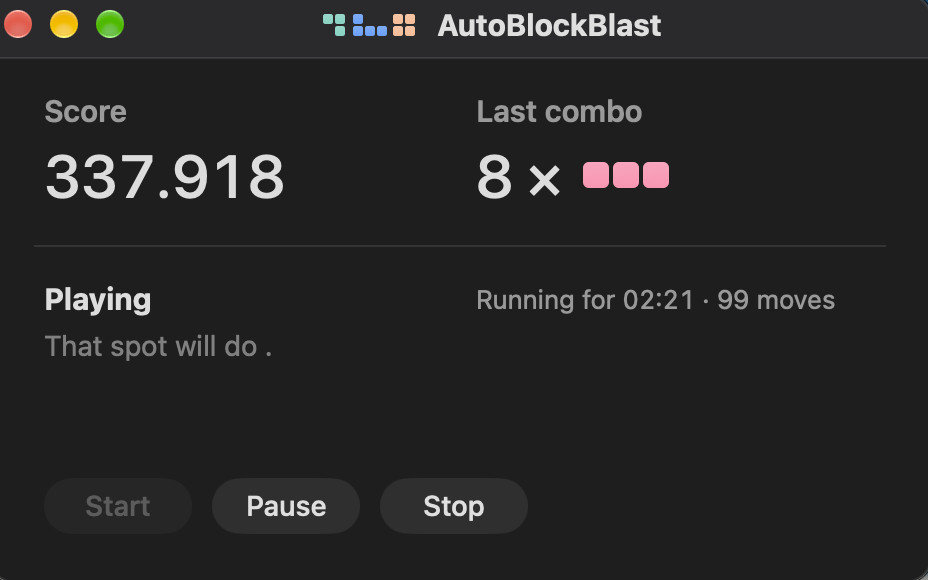
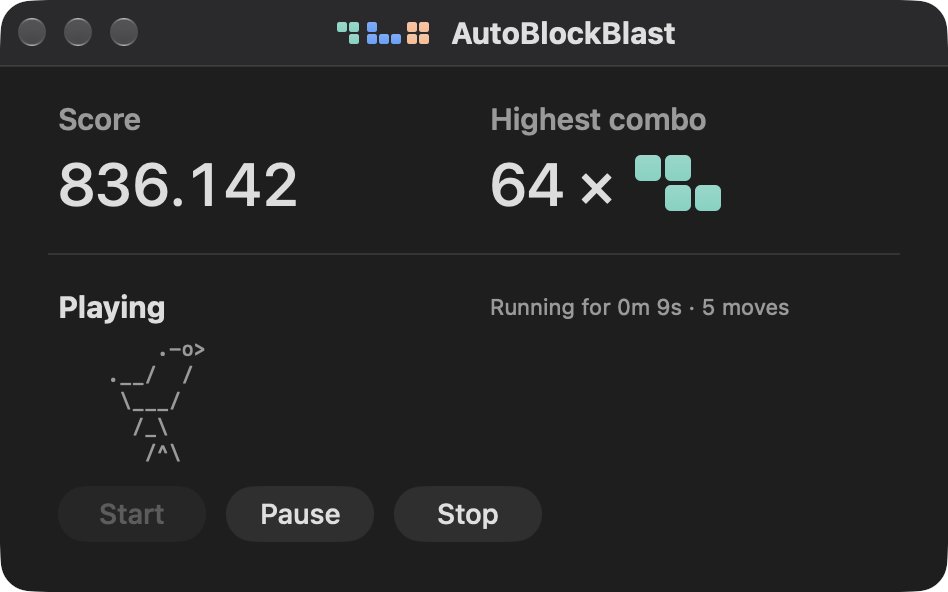
Show a jumping dino and refresh the README previews

diff --git a/desktop/AutoBlockBlast.swift b/desktop/AutoBlockBlast.swift
@@ -109,61 +109,19 @@ final class BotApp: NSObject, NSApplicationDelegate {
     private var playAnimationStartedAt: TimeInterval = 0
     private let detailFont = NSFont.systemFont(ofSize: 14)
     private let storyFont = NSFont.monospacedSystemFont(ofSize: 10, weight: .medium)
-    private let duelFrames = [
-        // The fighters close in.
-        " .-.            .-.\n(o >)          (< x)\n/|#|\\          /|#|\\\n |=|            |=|\n/   \\          /   \\",
-        "  .-.          .-.\n (o >)        (< x)\n /|#|-        /|#|\\\n  |=|          |=|\n  / /         /   \\",
-        "  .-.          .-.\n (o >)        (< x)\n /|#|\\        -|#|\\\n  |=|          |=|\n /   \\         \\ \\",
-        "   .-.        .-.\n  (o >)      (< x)\n  /|#|-      /|#|\\\n   |=|        |=|\n   / /       /   \\",
-        "   .-.        .-.\n  (o >)      (< x)\n  /|#|\\      -|#|\\\n   |=|        |=|\n  /   \\       \\ \\",
-        "    .-.      .-.\n   (o >)    (< x)\n   /|#|-    /|#|\\\n    |=|      |=|\n    / /     /   \\",
-        "    .-.      .-.\n   (o >)    (< x)\n   /|#|\\    -|#|\\\n    |=|      |=|\n   /   \\     \\ \\",
-        "    .-.      .-.\n   (o >)    (< x)\n   /|#|\\ +  /|#|\\\n    |=|      |=|\n   /   \\    /   \\",
-        // They trade the first blows.
-        "     .-.     .-.\n    (o>)    (< x)\n   /|#|=--* /|#|\\\n    |=|      |=|\n   /  /     /   \\",
-        "     .-.      .-.\n    (o>)     (x >)\n   /|#|_---  /|#|\\\n     |=\\       |=/\n    _/        / /",
-        "    .-.      .-.\n   (o >)    (< x)\n   /|#|\\  <=-|#|\\\n    |=|      |=|\n   /   \\     \\ \\",
-        "   .-.      .-.\n  (< o)     (<x)\n  /|#|\\ <---_|#|\\\n  \\=|       /=|\n   \\ \\        \\_",
-        "   .-.       .-.\n  (o >)   / (< x)\n  /|#|-     /|#|\\\n   |=|       |=|\n   / /      /   \\",
-        "     .-.    .-.\n    (o>)    (<x)\n   /|#|=-+- =|#|\\\n    |=|      |=|\n   /  /      \\  \\",
-        "    .-.      .-.\n   (o >)  . (< x)\n   /|#|\\    /|#|\\\n    |=|      |=|\n   /   \\    /   \\",
-        "   .-.        .-.\n  (o >)      (< x)\n  /|#|-      -|#|\\\n   |=|        |=|\n   / /        \\ \\",
-        // A feint, a duck, and a counter.
-        "     .-.     .-.\n    (o>) /  (< x)\n   /|#|=    /|#|\\\n    |=|      |=|\n   /  /     /   \\",
-        "     .-.\n    (o>)    .-.\n   /|#|_----(<x)\n     |=\\    _|#|\\\n    _/      /__\\",
-        "     .-.\n    (o>)     .-.\n   /|#|_---. (<x)\n     |=\\     _|#|\\\n    _/       /__\\",
-        "    .-.      .-.\n   (o >)     (<x)\n   /|#|\\ <====|#|\\\n    |=|       |=|\n   /   \\      \\  \\",
-        "   .-.      .-.\n  (< o)     (<x)\n  /|#|\\ <---_|#|\\\n  \\=|       /=|\n   \\ \\        \\_",
-        "            .-.\n    .-. <---(<x)\n   (o>)     _|#|\\\n  /|#|_     /=|\n   /__\\       \\_",
-        "              .-.\n    .-.   +  (< x)\n   (o>)      /|#|\\\n  /|#|_       |=|\n   /__\\      /   \\",
-        "    .-.      .-.\n   (o >)    (< x)\n   /|#|-    -|#|\\\n    |=|      |=|\n    / /      \\ \\",
-        // Both rush in and lose their blades.
-        "     .-.    .-.\n    (o>)    (<x)\n   /|#|====-=|#|\\\n    |=|      |=|\n   /  /      \\  \\",
-        "      .-.  .-.\n     (o>)  (<x)\n    /|#|==*=|#|\\\n     |=|    |=|\n    /  /    \\  \\",
-        "      .-.  .-.\n     (o>)\\/(<x)\n    /|#|_+*_|#|\\\n      |=\\  /=|\n     _/      \\_",
-        "    .-. /  \\ .-.\n   (< o)    (x >)\n   /|#|\\    /|#|\\\n   \\=|        |=/\n    \\ \\      / /",
-        "   .-.        .-.\n  (< o) '  ` (x >)\n  /|#|\\      /|#|\\\n  \\=|          |=/\n   \\ \\        / /",
-        "   .-.        .-.\n  (o >)      (< x)\n  /|#|\\      /|#|\\\n   |=|  \\  /  |=|\n  /  \\        /  \\",
-        "   .-.        .-.\n  (o >)      (< x)\n  /|#|\\      /|#|\\\n   |=|        |=|\n  /  \\  -  -  /  \\",
-        "    .-.      .-.\n   (o >)    (< x)\n   /|#|\\    /|#|\\\n    |=|      |=|\n   /  \\ -  - /  \\",
-        // They lower their guard and shake hands.
-        "    .-.\n   (o >)    .-.\n   /|#|\\    (<x)\n    |=|     _|#|\\\n   /  \\ -  -/__\\",
-        "             .-.\n     .-.    (< x)\n    (o>)    /|#|\\\n   /|#|_     |=|\n    /__\\-  - /  \\",
-        "    .-.      .-.\n   (o >)    (< x)\n   /|#|\\ .  /|#|\\\n    |=|      |=|\n   /  \\ -  - /  \\",
-        "    .-.      .-.\n   (o >)    (< x)\n   /|#|\\  ~ -|#|\\\n    |=|      |=|\n   /  \\      /  \\",
-        "    .-.      .-.\n   (o >)    (< x)\n   /|#|- -- -|#|\\\n    |=|      |=|\n   /  \\      /  \\",
-        "     .-.    .-.\n    (o >)  (< x)\n    /|#|-==-|#|\\\n     |=|    |=|\n    /  \\    /  \\",
-        "     .-.    .-.\n    (o >) +(< x)\n    /|#|----|#|\\\n     |=|    |=|\n    /  \\    /  \\",
-        "     .-.    .-.\n    (o >)  (< x)\n    /|#|\\  /|#|\\\n     |=|    |=|\n    /  \\    /  \\",
-        // They bow and reset for a rematch.
-        "            .-.\n      .-.  (< x)\n     /o>)  /|#|\\\n    /|#|    |=|\n     / \\    /  \\",
-        "\n      .-.  .-.\n     /o>)  (<x\\\n    /|#|    |#|\\\n     / \\    / \\",
-        "     .-.\n    (o >)  .-.\n    /|#|\\  (<x\\\n     |=|    |#|\\\n    /  \\    / \\",
-        "     .-.  * .-.\n    (o >)  (< x)\n    /|#|\\  /|#|\\\n     |=|    |=|\n    /  \\    /  \\",
-        "    .-.      .-.\n   (o >)    (< x)\n   /|#|-    /|#|\\\n    |=|      |=|\n    / /     /   \\",
-        "   .-.        .-.\n  (o >)      (< x)\n  /|#|\\      -|#|\\\n   |=|        |=|\n  /   \\       \\ \\",
-        "  .-.          .-.\n (o >)        (< x)\n /|#|-        -|#|\\\n  |=|          |=|\n  / /          \\ \\",
-        " .-.            .-.\n(o >)          (< x)\n/|#|\\          -|#|\\\n |=|            |=|\n/   \\           \\ \\",
+    private let dinoFrames = [
+        " \n        .-o>\n    .__/  /\n     \\___/\n      / \\          /^\\",
+        " \n        .-o>\n    .__/  /\n     \\___/\n       \\/        /^\\",
+        " \n        .-o>\n    .__/  /\n     \\___/\n      / \\      /^\\",
+        " \n        .-o>\n    .__/  /\n     \\___/\n       \\/    /^\\",
+        " \n        .-o>\n    .__/  /\n     \\___/\n      / \\  /^\\",
+        "        .-o>\n    .__/  /\n     \\___/\n       v\n         /^\\",
+        "        .-o>\n    .__/  /\n     \\___/\n      /_\\\n       /^\\",
+        "        .-o>\n    .__/  /\n     \\___/\n       v\n     /^\\",
+        "        .-o>\n    .__/  /\n     \\___/\n      /_\\\n   /^\\",
+        " \n        .-o>\n    .__/  /\n     \\___/\n /^\\  / \\",
+        " \n        .-o>\n    .__/  /\n     \\___/\n       \\/",
+        " \n        .-o>\n    .__/  /\n     \\___/\n      / \\",
     ]
     let startButton = NSButton(title: "Start", target: nil, action: nil)
     let pauseButton = NSButton(title: "Pause", target: nil, action: nil)
@@ -339,11 +297,11 @@ final class BotApp: NSObject, NSApplicationDelegate {
         let second = Int(ProcessInfo.processInfo.systemUptime - playAnimationStartedAt)
         let text: String
         if NSWorkspace.shared.accessibilityDisplayShouldReduceMotion {
-            text = duelFrames[0]
+            text = dinoFrames[0]
         } else if second < 2 {
             text = second == 0 ? "." : ". . ."
         } else {
-            text = duelFrames[(second - 2) % duelFrames.count]
+            text = dinoFrames[(second - 2) % dinoFrames.count]
         }
         if detail.stringValue != text {
             detail.stringValue = text

diff --git a/README.md b/README.md
@@ -2,11 +2,13 @@
 
 AutoBlockBlast runs on a Mac and plays **Block Blast on an Android phone connected through ADB over USB or Wi-Fi**. Use it to preview the bot's suggested placements or let it play automatically. It reads the board and tray from a scrcpy video stream, searches the legal placements for the visible pieces, and verifies the result after every ADB drag.
 
-## Autoplay preview
+## Preview
 
-A short recording of the bot playing on a Samsung Galaxy A72.
+| Galaxy A72 gameplay | AutoBlockBlast for Mac |
+| --- | --- |
+| <img src="docs/media/autoplay.gif" width="280" alt="Five autoplay moves on a Galaxy A72 with the live score visible"> | <img src="docs/media/desktop-preview.png" width="470" alt="Mac app showing the final score, highest combo, and jumping ASCII dino"> |
 
-![AutoBlockBlast autoplay preview](docs/media/autoplay.gif)
+The recording shows five verified placements and a score increase from **835,965** to **836,142**. The Mac preview shows the final score and the highest combo visible in the same run.
 
 ## Tested setup
 
@@ -62,9 +64,7 @@ See the [Android wireless debugging guide](https://developer.android.com/tools/a
 
 ## Mac desktop app
 
-![AutoBlockBlast desktop app while playing](docs/media/desktop-preview.png)
-
-The screenshot is from an earlier build. While playing, the app shows a looping ASCII duel at one frame per second and aligns the session line, such as `Running for 1m 23s · 99 moves`, with the **Highest combo** column.
+While playing, the app shows a jumping ASCII dino and a session timer next to the move count.
 
 Build the app once from the project folder with `desktop/build-app.sh`. This requires Apple's Swift compiler and the Python environment from setup. Double-click `AutoBlockBlast.app` in the project folder to open it.
 
